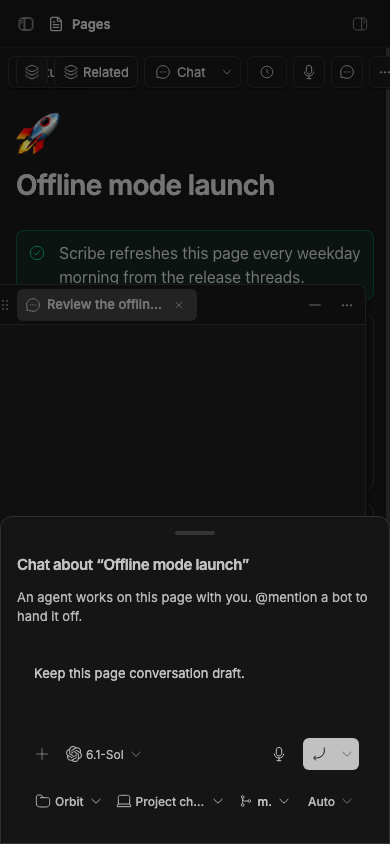
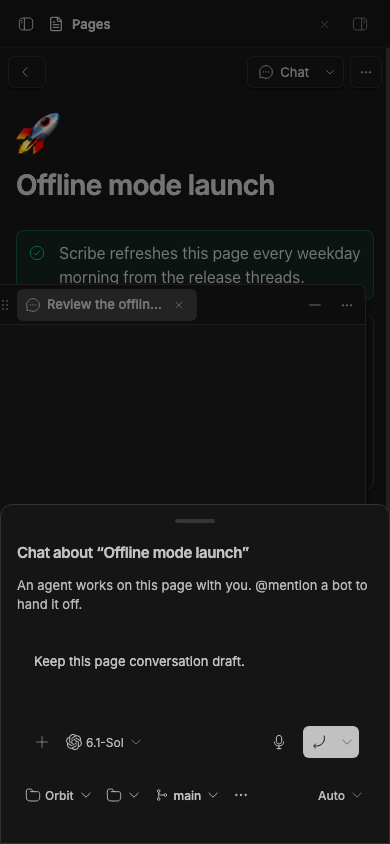
Keep compact actions above table headers and hide detached popovers

diff --git a/packages/bb-studio-kit/src/app/related-panel.tsx b/packages/bb-studio-kit/src/app/related-panel.tsx
@@ -80,7 +80,7 @@ export function RelatedPanel({ ref: item, compact = false }: { ref: RelatedRef; 
     <PopoverTrigger asChild><button type="button" aria-label="Related" title={compact ? "Related items" : undefined} className="flex h-8 items-center gap-1 rounded-md border border-border bg-background px-2 text-sm shadow-sm hover:bg-state-hover">
       <Icon name="Layers" className="size-4" /> {compact ? null : "Related"}
     </button></PopoverTrigger>
-    <PopoverContent data-studio-related-panel="" aria-label="Related items" align="end" sideOffset={8} className="max-h-[min(70vh,var(--radix-popover-content-available-height))] w-72 max-w-[calc(100vw-1rem)] rounded-lg bg-background p-3 shadow-xl">
+    <PopoverContent data-studio-related-panel="" aria-label="Related items" align="end" sideOffset={8} hideWhenDetached className="max-h-[min(70vh,var(--radix-popover-content-available-height))] w-72 max-w-[calc(100vw-1rem)] rounded-lg bg-background p-3 shadow-xl">
       <div className="mb-2 text-xs font-semibold text-muted-foreground">Related items</div>
       {links.length ? links.map((link, index) => <a key={`${link.href}:${index}`} href={link.href} {...studioItemProps(link)} onClick={event => { if (!event.metaKey && !event.ctrlKey && !event.shiftKey && !event.altKey && companionNavigate({ kind: "path", path: link.href })) event.preventDefault(); }} className="block rounded px-2 py-1.5 text-sm hover:bg-state-hover">{link.title}<span className="block text-xs text-muted-foreground">{link.detail}</span></a>) : <p className="px-2 text-sm text-muted-foreground">No related items.</p>}
       <div className="mt-3 mb-2 text-xs font-semibold text-muted-foreground">Threads about this</div>

diff --git a/packages/bb-studio-kit/src/app/item-header.tsx b/packages/bb-studio-kit/src/app/item-header.tsx
@@ -144,7 +144,7 @@ export function ItemHeader({
       ref={header}
       data-studio-item-header=""
       className={cn(
-        "pointer-events-none absolute inset-x-0 top-0 z-20 flex items-start justify-between gap-2 p-3 max-md:p-2",
+        "pointer-events-none absolute inset-x-0 top-0 z-40 flex items-start justify-between gap-2 p-3 max-md:p-2",
         className,
       )}
     >
